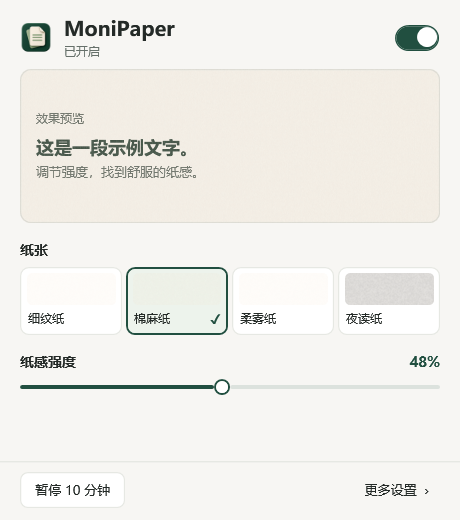
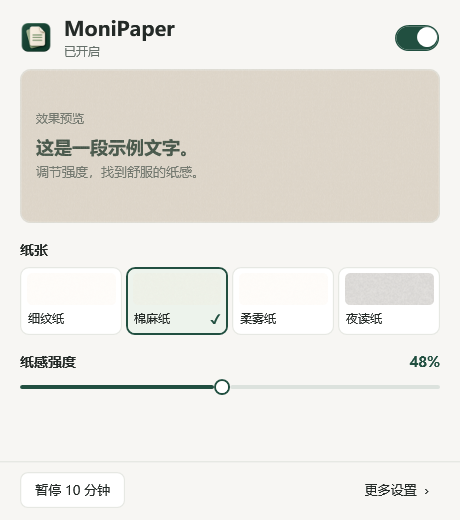
Deepen the preview background and refine vertical scrollbars

Changed region(s): [[0.0304, 0.1231, 0.9739, 0.4308]]

diff --git a/MainWindow.xaml b/MainWindow.xaml
@@ -212,6 +212,69 @@
             <Setter Property="MinHeight" Value="34" />
             <Setter Property="Padding" Value="8,4" />
         </Style>
+        <ControlTemplate x:Key="ScrollBarRepeatButtonTemplate" TargetType="RepeatButton">
+            <Border Background="Transparent" />
+        </ControlTemplate>
+        <ControlTemplate x:Key="ScrollBarThumbTemplate" TargetType="Thumb">
+            <Grid Background="Transparent">
+                <Border x:Name="ScrollThumbVisual" Width="6" HorizontalAlignment="Center" Background="#B9C2BC" CornerRadius="3" />
+            </Grid>
+            <ControlTemplate.Triggers>
+                <Trigger Property="IsMouseOver" Value="True">
+                    <Setter TargetName="ScrollThumbVisual" Property="Background" Value="#9EAAA2" />
+                </Trigger>
+                <Trigger Property="IsDragging" Value="True">
+                    <Setter TargetName="ScrollThumbVisual" Property="Background" Value="#84968B" />
+                </Trigger>
+            </ControlTemplate.Triggers>
+        </ControlTemplate>
+        <Style x:Key="MoniPaperVerticalScrollBar" TargetType="ScrollBar">
+            <Setter Property="Width" Value="12" />
+            <Setter Property="MinWidth" Value="12" />
+            <Setter Property="Background" Value="Transparent" />
+            <Setter Property="BorderThickness" Value="0" />
+            <Setter Property="Template">
+                <Setter.Value>
+                    <ControlTemplate TargetType="ScrollBar">
+                        <Grid Width="12" Background="Transparent">
+                            <Track x:Name="PART_Track"
+                                   Orientation="Vertical"
+                                   IsDirectionReversed="True"
+                                   Minimum="{TemplateBinding Minimum}"
+                                   Maximum="{TemplateBinding Maximum}"
+                                   Value="{TemplateBinding Value}"
+                                   ViewportSize="NaN"
+                                   Focusable="False">
+                                <Track.DecreaseRepeatButton>
+                                    <RepeatButton Command="ScrollBar.PageUpCommand"
+                                                  CommandTarget="{Binding RelativeSource={RelativeSource TemplatedParent}}"
+                                                  Background="Transparent"
+                                                  BorderThickness="0"
+                                                  Focusable="False"
+                                                  Template="{StaticResource ScrollBarRepeatButtonTemplate}" />
+                                </Track.DecreaseRepeatButton>
+                                <Track.IncreaseRepeatButton>
+                                    <RepeatButton Command="ScrollBar.PageDownCommand"
+                                                  CommandTarget="{Binding RelativeSource={RelativeSource TemplatedParent}}"
+                                                  Background="Transparent"
+                                                  BorderThickness="0"
+                                                  Focusable="False"
+                                                  Template="{StaticResource ScrollBarRepeatButtonTemplate}" />
+                                </Track.IncreaseRepeatButton>
+                                <Track.Thumb>
+                                    <Thumb Height="60" MinHeight="60" Width="12" Template="{StaticResource ScrollBarThumbTemplate}" />
+                                </Track.Thumb>
+                            </Track>
+                        </Grid>
+                        <ControlTemplate.Triggers>
+                            <Trigger Property="IsEnabled" Value="False">
+                                <Setter Property="Opacity" Value="0.4" />
+                            </Trigger>
+                        </ControlTemplate.Triggers>
+                    </ControlTemplate>
+                </Setter.Value>
+            </Setter>
+        </Style>
         <Style x:Key="SegmentRadio" TargetType="RadioButton">
             <Setter Property="Foreground" Value="{StaticResource TextBrush}" />
             <Setter Property="Background" Value="{StaticResource SurfaceBrush}" />
@@ -284,9 +347,12 @@
             </Grid>
 
             <ScrollViewer Grid.Row="1" VerticalScrollBarVisibility="Auto" HorizontalScrollBarVisibility="Disabled" Focusable="False">
+                <ScrollViewer.Resources>
+                    <Style TargetType="ScrollBar" BasedOn="{StaticResource MoniPaperVerticalScrollBar}" />
+                </ScrollViewer.Resources>
                 <StackPanel Margin="20,0,20,10">
                     <Grid x:Name="ReadingPreviewFrame" Height="154" Margin="0,0,0,18">
-                        <Border Background="#FFFCF6" BorderBrush="{StaticResource BorderBrush}" BorderThickness="1" CornerRadius="10" />
+                        <Border Background="#E5DFD5" BorderBrush="{StaticResource BorderBrush}" BorderThickness="1" CornerRadius="10" />
                         <StackPanel Margin="16,13" VerticalAlignment="Center">
                             <TextBlock Text="效果预览" Style="{StaticResource SecondaryText}" />
                             <TextBlock Text="这是一段示例文字。" Foreground="#354B40" FontSize="18" FontWeight="SemiBold" Margin="0,10,0,0" />
@@ -374,6 +440,9 @@
             </Grid>
 
             <ScrollViewer x:Name="SettingsScrollViewer" Grid.Row="1" VerticalScrollBarVisibility="Auto" HorizontalScrollBarVisibility="Disabled">
+                <ScrollViewer.Resources>
+                    <Style TargetType="ScrollBar" BasedOn="{StaticResource MoniPaperVerticalScrollBar}" />
+                </ScrollViewer.Resources>
                 <StackPanel Margin="20,0,20,16">
                     <Grid Margin="0,0,0,14">
                         <Grid.ColumnDefinitions><ColumnDefinition Width="*" /><ColumnDefinition Width="Auto" /></Grid.ColumnDefinitions>
@@ -482,6 +551,9 @@
             </Grid>
 
             <ScrollViewer x:Name="ShortcutEditorScrollViewer" Grid.Row="1" VerticalScrollBarVisibility="Auto" HorizontalScrollBarVisibility="Disabled">
+                <ScrollViewer.Resources>
+                    <Style TargetType="ScrollBar" BasedOn="{StaticResource MoniPaperVerticalScrollBar}" />
+                </ScrollViewer.Resources>
                 <StackPanel Margin="20,0,20,16">
                     <TextBlock Text="点击组合键，再按下新的键位。至少包含 Ctrl、Alt 或 Shift。" Style="{StaticResource SecondaryText}" TextWrapping="Wrap" Margin="0,0,0,15" />
 

diff --git a/DESIGN.md b/DESIGN.md
@@ -23,6 +23,7 @@ MoniPaper (formerly PaperCare) is a small Windows utility for adjusting the read
 ## Visual language
 
 - Canvas: warm near-white, such as `#F7F6F3` or `#FBFBFA`.
+- Reading preview: a slightly deeper warm gray-beige (`#E5DFD5`) so the paper effect is easier to distinguish from the canvas.
 - Primary text: charcoal, such as `#242A27`.
 - Secondary text: a readable muted gray, such as `#66706A`.
 - Borders: subtle neutral gray, such as `#E6E8E3`, only where structure or state needs them.
@@ -40,6 +41,7 @@ MoniPaper (formerly PaperCare) is a small Windows utility for adjusting the read
 - Use a native-semantic switch, radio choices, and sliders with custom WPF styles. Preserve keyboard navigation, focus indication, accessible names, and disabled states.
 - Selected paper has a persistent visual indication beyond animation. Slider percentages stay aligned.
 - Interaction feedback is brief and restrained. No continuous animation or repeated full-screen rendering is introduced.
+- Vertical scrolling uses a slim rounded thumb on a transparent track, with no arrow buttons. Keep a wider invisible drag target and retain native wheel, page, keyboard, and full-range drag behavior.
 
 ## Scope
 

diff --git a/ACCEPTANCE.md b/ACCEPTANCE.md
@@ -1,6 +1,16 @@
-# MoniPaper v1.2.0 验证范围
+# MoniPaper v1.2.1 验证范围
 
-## 本版实机验证
+## v1.2.1 样式更新
+
+- 阅读预览底色调整为同色系的暖灰米色 `#E5DFD5`。
+- 纵向滚动条改为透明轨道、6 像素宽及 60 像素高的圆角滑块，保留 12 像素交互宽度。
+- 候选构建完成原有 17 项核心自检、11 个离屏场景及 4 项捕获检查，均通过；预览图片已检查。
+- 后续不再追加验证。新版滚动条的实机拖动、滚轮与键盘完整流程未完成验收；最终提交后的发行包仅重新构建，未再次运行测试。
+- 包中的 `candidate-self-test-results.json` 来自样式候选构建，不表示对最终重新构建的 EXE 执行了自检。
+
+以下保留 v1.2.0 的功能验收记录，不能视为对本次滚动条样式的追加验证。
+
+## v1.2.0 实机验证
 
 2026-09-02，通过 Windows 桌面控制操作修复后的应用完成以下检查：
 

diff --git a/THIRD-PARTY-NOTICES.md b/THIRD-PARTY-NOTICES.md
@@ -2,7 +2,7 @@
 
 MoniPaper's original source code, icon assets, and procedural textures are licensed under the MIT License in [LICENSE](LICENSE). Earlier releases used the name PaperCare.
 
-The Windows x64 self-contained v1.0.0, v1.0.1, v1.1.0, and v1.2.0 distributions include Microsoft .NET 10.0.8 components. Their copyright and license notices are retained separately and are not replaced by MoniPaper's license.
+The Windows x64 self-contained v1.0.0, v1.0.1, v1.1.0, v1.2.0, and v1.2.1 distributions include Microsoft .NET 10.0.8 components. Their copyright and license notices are retained separately and are not replaced by MoniPaper's license.
 
 | Component | License and notices included in this distribution | Source |
 | --- | --- | --- |

diff --git a/README.md b/README.md
@@ -6,7 +6,7 @@
 
 ## 开始使用
 
-从 [Releases](https://github.com/DCspirit-23/Paper-Care/releases) 下载 Windows x64 压缩包，解压后打开 `MoniPaper.exe`。这是自包含版本，无需另外安装 .NET。第一次运行时覆盖效果默认关闭。升级时请先退出仍在托盘运行的旧版 PaperCare。
+从 [Releases](https://github.com/DCspirit-23/MoniPaper/releases) 下载 Windows x64 压缩包，解压后打开 `MoniPaper.exe`。这是自包含版本，无需另外安装 .NET。第一次运行时覆盖效果默认关闭。升级时请先退出仍在托盘运行的旧版 PaperCare。
 
 1. 选择细纹纸、棉麻纸、柔雾纸或夜读纸。
 2. 调整“纸感强度”，在预览中查看效果。
